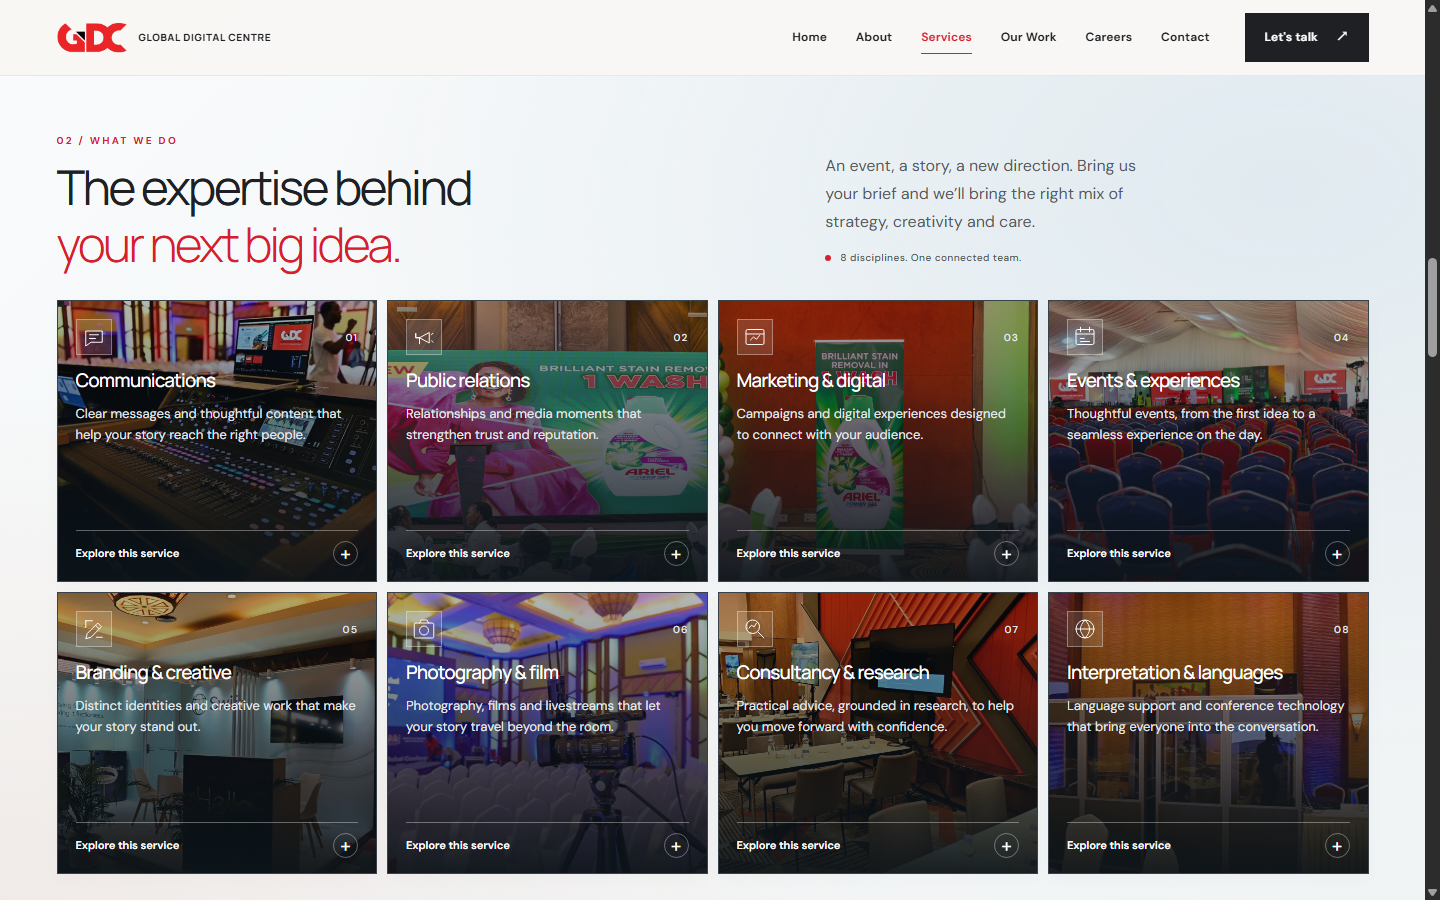
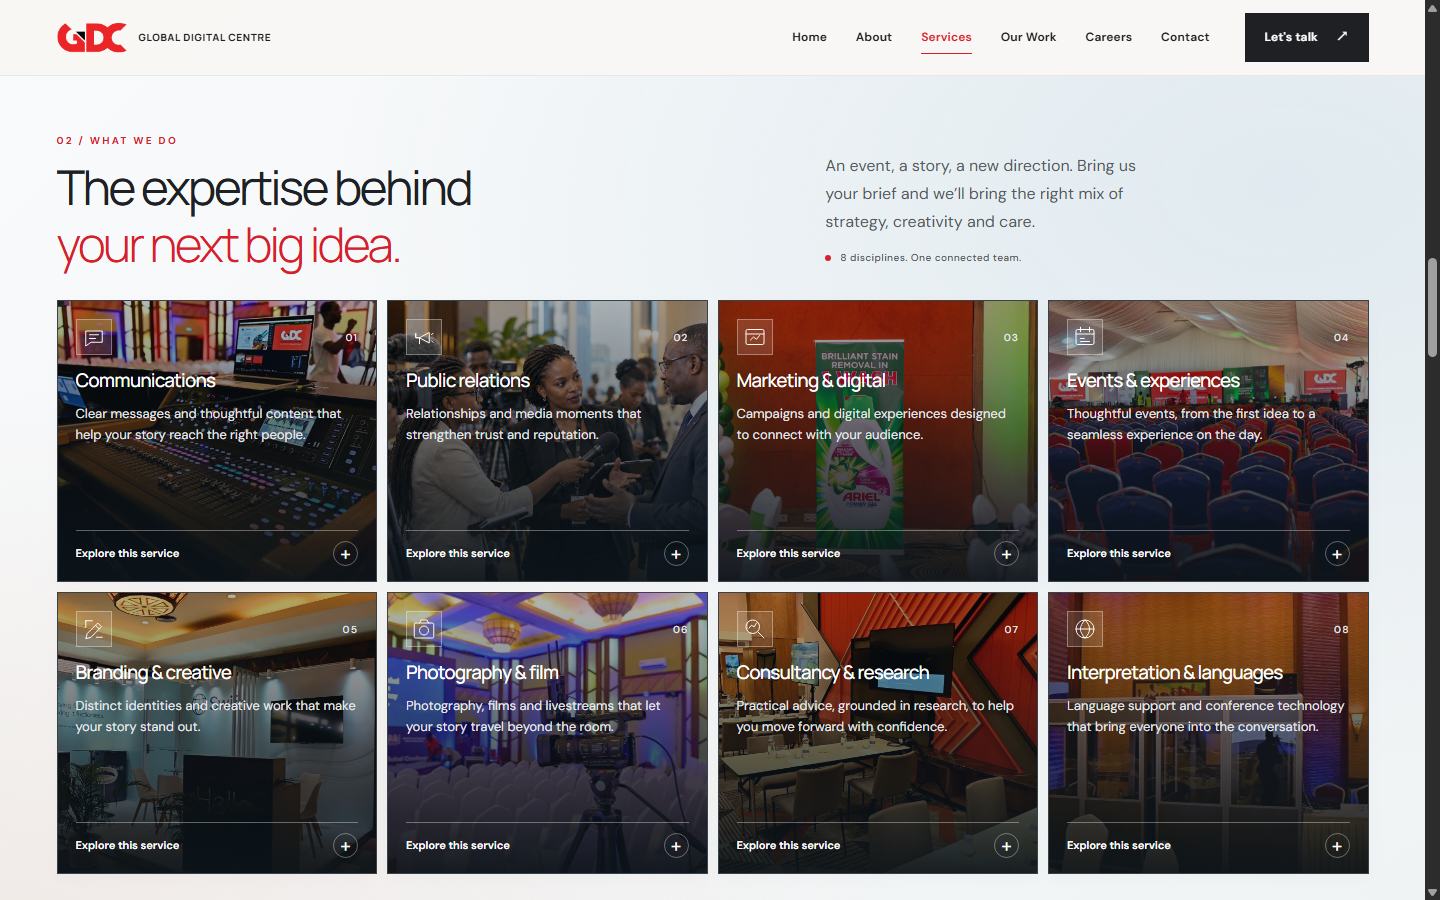
Use Nairobi media interview image for public relations

Changed region(s): [[0.25, 0.3111, 0.5, 0.6222]]

diff --git a/index.html b/index.html
@@ -49,7 +49,7 @@
   <section class="hero" aria-labelledby="hero-title">
     <div class="hero-stage is-collage-active" data-hero-player>
       <div class="hero-backdrop" aria-hidden="true">
-        <div class="hero-collage hero-slide is-active"><div class="hero-collage-tile"><img src="assets/media/about/production-console.jpg" alt="" width="900" height="506" loading="eager" decoding="async"><span class="hero-collage-label">Communications</span></div><div class="hero-collage-tile"><img src="assets/media/projects/ariel/client-cover.jpg" alt="" width="900" height="506" loading="eager" decoding="async"><span class="hero-collage-label">Public Relations</span></div><div class="hero-collage-tile"><img src="assets/media/projects/swift/gallery-4.webp" alt="" width="900" height="506" loading="eager" decoding="async"><span class="hero-collage-label">Marketing</span></div><div class="hero-collage-tile"><img src="assets/media/projects/ssd/gallery-2.jpg" alt="" width="900" height="506" loading="eager" decoding="async"><span class="hero-collage-label">Events</span></div></div>
+        <div class="hero-collage hero-slide is-active"><div class="hero-collage-tile"><img src="assets/media/about/production-console.jpg" alt="" width="900" height="506" loading="eager" decoding="async"><span class="hero-collage-label">Communications</span></div><div class="hero-collage-tile"><img src="assets/media/hero/public-relations-nairobi.png" alt="" width="900" height="506" loading="eager" decoding="async"><span class="hero-collage-label">Public Relations</span></div><div class="hero-collage-tile"><img src="assets/media/projects/swift/gallery-4.webp" alt="" width="900" height="506" loading="eager" decoding="async"><span class="hero-collage-label">Marketing</span></div><div class="hero-collage-tile"><img src="assets/media/projects/ssd/gallery-2.jpg" alt="" width="900" height="506" loading="eager" decoding="async"><span class="hero-collage-label">Events</span></div></div>
         <video class="hero-video hero-slide" muted playsinline preload="none" poster="assets/media/hero/nssf.jpg" data-src="assets/media/hero/nssf.mp4" tabindex="-1"></video><video class="hero-video hero-slide" muted playsinline preload="none" poster="assets/media/hero/midnight-east.jpg" data-src="assets/media/hero/midnight-east.mp4" tabindex="-1"></video><video class="hero-video hero-slide" muted playsinline preload="none" poster="assets/media/hero/ariel.jpg" data-src="assets/media/hero/ariel.mp4" tabindex="-1"></video><video class="hero-video hero-slide" muted playsinline preload="none" poster="assets/media/hero/swift.jpg" data-src="assets/media/hero/swift.mp4" tabindex="-1"></video>
       </div>
       <div class="hero-overlay" aria-hidden="true"></div>
@@ -133,7 +133,7 @@ Then we should probably be working together. Let&#39;s create something remarkab
       <div class="service-details-body"><p class="service-full-title">Communications</p><p>Communication strategy, key messages, stakeholder materials, editorial content and campaign planning.</p><a class="service-enquiry" href="#contact" data-service="Communications">Discuss your brief <span aria-hidden="true">↗</span></a></div>
     </details>
   </article><article class="service-card service-card-with-image" id="service-public-relations" aria-labelledby="service-title-2">
-    <img class="service-card-photo" src="assets/media/projects/ariel/client-cover.jpg" alt="" aria-hidden="true" width="900" height="506" loading="lazy" decoding="async">
+    <img class="service-card-photo" src="assets/media/hero/public-relations-nairobi.png" alt="" aria-hidden="true" width="900" height="506" loading="lazy" decoding="async">
     <div class="service-card-top"><span class="service-icon"><svg viewBox="0 0 32 32" fill="none" stroke="currentColor" stroke-width="1.3" stroke-linecap="round" stroke-linejoin="round" aria-hidden="true"><path d="M5 17h5l13-7v14l-13-7H5v-6Z"/><path d="M10 17v8M26 13l2-2M26 21l2 2"/></svg></span><span class="service-number" aria-hidden="true">02</span></div>
     <h3 id="service-title-2">Public relations</h3>
     <p class="service-summary">Relationships and media moments that strengthen trust and reputation.</p>

diff --git a/README.md b/README.md
@@ -19,7 +19,7 @@ Screenshots for quick review: [desktop home](previews/home-desktop.png), [mobile
 
 Case-study gallery thumbnails open an image viewer with next/previous controls, arrow-key navigation, and Escape to close. Project cards link to full case studies.
 
-The main home sections fill at least the available screen height below the navigation and grow when needed for smaller screens. The hero starts with a labeled four-photo collage representing Communications, Public Relations, Marketing, and Events, using GDC work photos. Communications uses the small production-console photo from About, and Events uses the KAIICO auditorium photo from the SSD project gallery. Copy and two CTAs sit on a white panel to the left on desktop; the collage stacks below the copy on mobile. The CTAs lead to Selected Work and Contact. Four silent project videos follow the collage. The client ribbon remains directly below the hero, with its existing pause/resume control. Review the [updated desktop hero](previews/client-update-desktop.png), [mobile hero](previews/client-update-mobile-verified.png), and [eight service cards](previews/client-update-services-verified.png).
+The main home sections fill at least the available screen height below the navigation and grow when needed for smaller screens. The hero starts with a labeled four-photo collage representing Communications, Public Relations, Marketing, and Events. Communications uses the small production-console photo from About, Events uses the KAIICO auditorium photo from the SSD project gallery, and Public Relations uses an AI-generated Nairobi media interview image. Copy and two CTAs sit on a white panel to the left on desktop; the collage stacks below the copy on mobile. The CTAs lead to Selected Work and Contact. Four silent project videos follow the collage. The client ribbon remains directly below the hero, with its existing pause/resume control. Review the [updated desktop hero](previews/client-update-desktop.png), [mobile hero](previews/client-update-mobile-verified.png), and [eight service cards](previews/client-update-services-verified.png).
 
 The opening collage advances after eight seconds, followed by the four videos, which rotate at the end of each 12-second clip. Visitors can select a slide or pause playback; playback also pauses when the hero leaves the screen or the browser tab is hidden. Reduced-motion and data-saving preferences start on the collage with an explicit Play button. A missing video keeps its poster and advances to the next selection. Without JavaScript, the collage and both CTAs remain visible.
 
@@ -29,7 +29,7 @@ About uses real GDC crew and event photography, a soft warm background, a welcom
 
 All pages use the original logo's red G and black arrow as the tab icon. `favicon.ico` includes 16, 32, and 48 px versions; the branding folder contains a 32 px PNG fallback and a 180 px Apple touch icon.
 
-Services uses eight close-set square cards in two rows of four on desktop, with a distinct GDC project photo behind every card, consistent dark overlays, concise titles and summaries, and expandable full descriptions. Communications and Public Relations are separate cards, as are Marketing & Digital and Branding & Creative. “Discuss your brief” takes visitors to Contact and selects the matching service in the enquiry form. Disclosures work with the keyboard and without JavaScript; without JavaScript, visitors select their service in the form themselves. Review the [updated desktop services](previews/client-update-services-verified.png). Edit `servicesHeading`, `servicesHeadingAccent`, `servicesIntro`, and the service `displayTitle`, `summary`, `detail`, and optional `image` fields in `content/site.json`.
+Services uses eight close-set square cards in two rows of four on desktop, with distinct images behind every card, consistent dark overlays, concise titles and summaries, and expandable full descriptions. The Public Relations card uses the AI-generated Nairobi media interview image; the other cards use GDC project photos. Communications and Public Relations are separate cards, as are Marketing & Digital and Branding & Creative. “Discuss your brief” takes visitors to Contact and selects the matching service in the enquiry form. Disclosures work with the keyboard and without JavaScript; without JavaScript, visitors select their service in the form themselves. Review the [updated desktop services](previews/client-update-services-verified.png). Edit `servicesHeading`, `servicesHeadingAccent`, `servicesIntro`, and the service `displayTitle`, `summary`, `detail`, and optional `image` fields in `content/site.json`.
 
 Home sections have distinct, subtle backgrounds: warm ivory for About, cool blue-grey for Services, charcoal for How We Work, warm stone for Selected Work, soft sage for Why GDC, and warm rose/stone for Contact. Selected Work uses dark text and a dark portfolio button to create a clear transition from the process section. Brand red remains the shared accent.
 
@@ -42,7 +42,7 @@ Why GDC uses the heading “Big ideas need the right people,” a soft sage back
 ## Where to edit
 
 - `content/site.json`: home-page and shared copy.
-- `scripts/build.mjs` → `heroCollage`: the four project photos on the first slide. `content/site.json` → `heroVideos`: the four following clips, their posters, and associated project IDs. Short, compressed clips and matching posters live in `assets/media/hero/`.
+- `scripts/build.mjs` → `heroCollage`: the four images on the first slide, including the AI-generated Public Relations image in `assets/media/hero/`. `content/site.json` → `heroVideos`: the four following clips, their posters, and associated project IDs. Short, compressed clips and matching posters live in `assets/media/hero/`.
 - `content/projects.json`: project titles, summaries, case-study copy, and media references imported from the existing GDC website.
 - `content/seo.json`: canonical domain, page titles, search descriptions, and project cover/gallery image descriptions. Rebuild after editing it.
 - careers/index.php and careers/job.php: public roles created through the HR admin.

diff --git a/assets/media/hero/README.md b/assets/media/hero/README.md
@@ -1,5 +1,7 @@
 # Hero media
 
+`public-relations-nairobi.png` is an AI-generated editorial image of a Nairobi media interview, created for the Public Relations tile in the first hero slide and its matching service card. It is illustrative and does not depict a GDC project.
+
 Four short clips from GDC's existing project reels, used as the full-width home-page background. Swift uses seconds 5–17 of its original; Midnight East uses seconds 40–52, showing the illuminated entrance and evening event; ARIEL uses seconds 14–26, showing the stage, screen, branded launch reveal, and venue; NSSF uses seconds 24–36, showing the completed conference stage, screens, lighting, and room layout. Each plays silently and is 12 seconds, 1280×720, 24 fps, H.264, with no audio track and MP4 fast-start metadata. Matching JPEG posters are captured at 0.5 seconds of the clip.
 
 | Clip | Original GDC reel |

diff --git a/assets/media/services/README.md b/assets/media/services/README.md
@@ -1,6 +1,6 @@
 # Services imagery
 
-These six optimized WebP images were used by an earlier service-card layout. The current eight service cards reference GDC work photos through `content/site.json`; Communications uses the small production-console photo from About. Each WebP here is 900×506; together they total about 371 KB.
+These six optimized WebP images were used by an earlier service-card layout. The current eight service cards reference images through `content/site.json`; Communications uses the small production-console photo from About, and Public Relations uses an AI-generated Nairobi media interview image in `assets/media/hero/`. Each WebP here is 900×506; together they total about 371 KB.
 
 | Service | Asset | Original project image |
 | --- | --- | --- |
